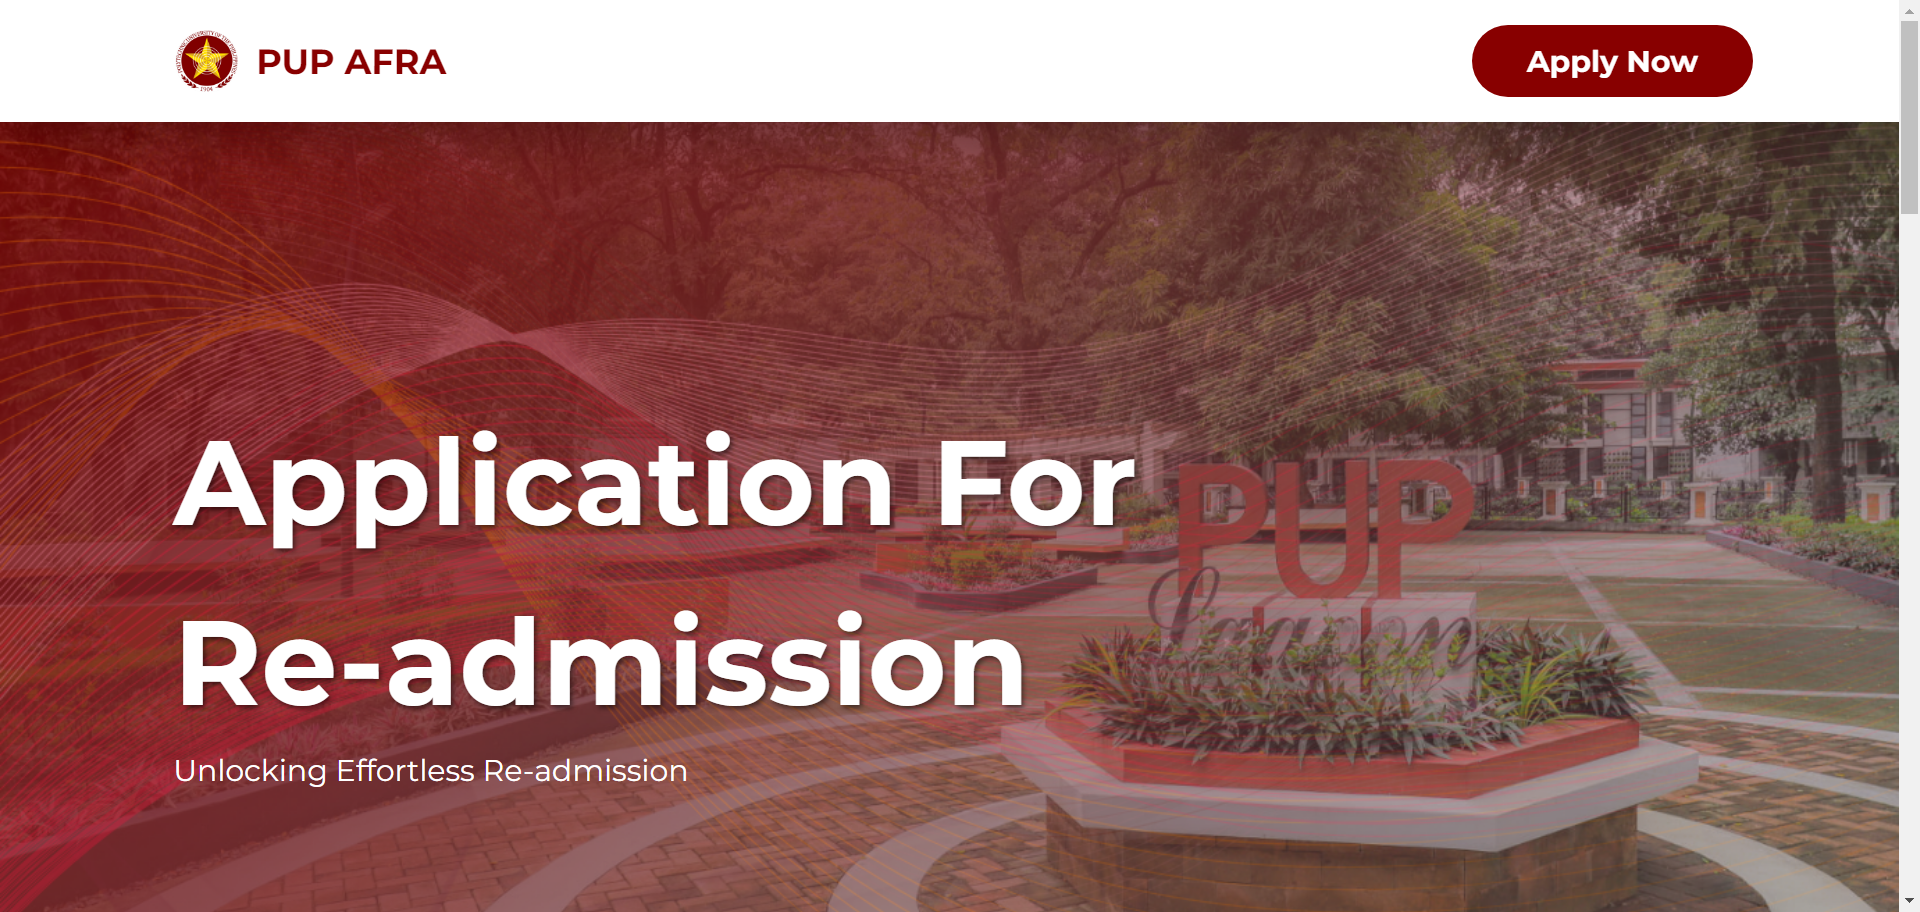
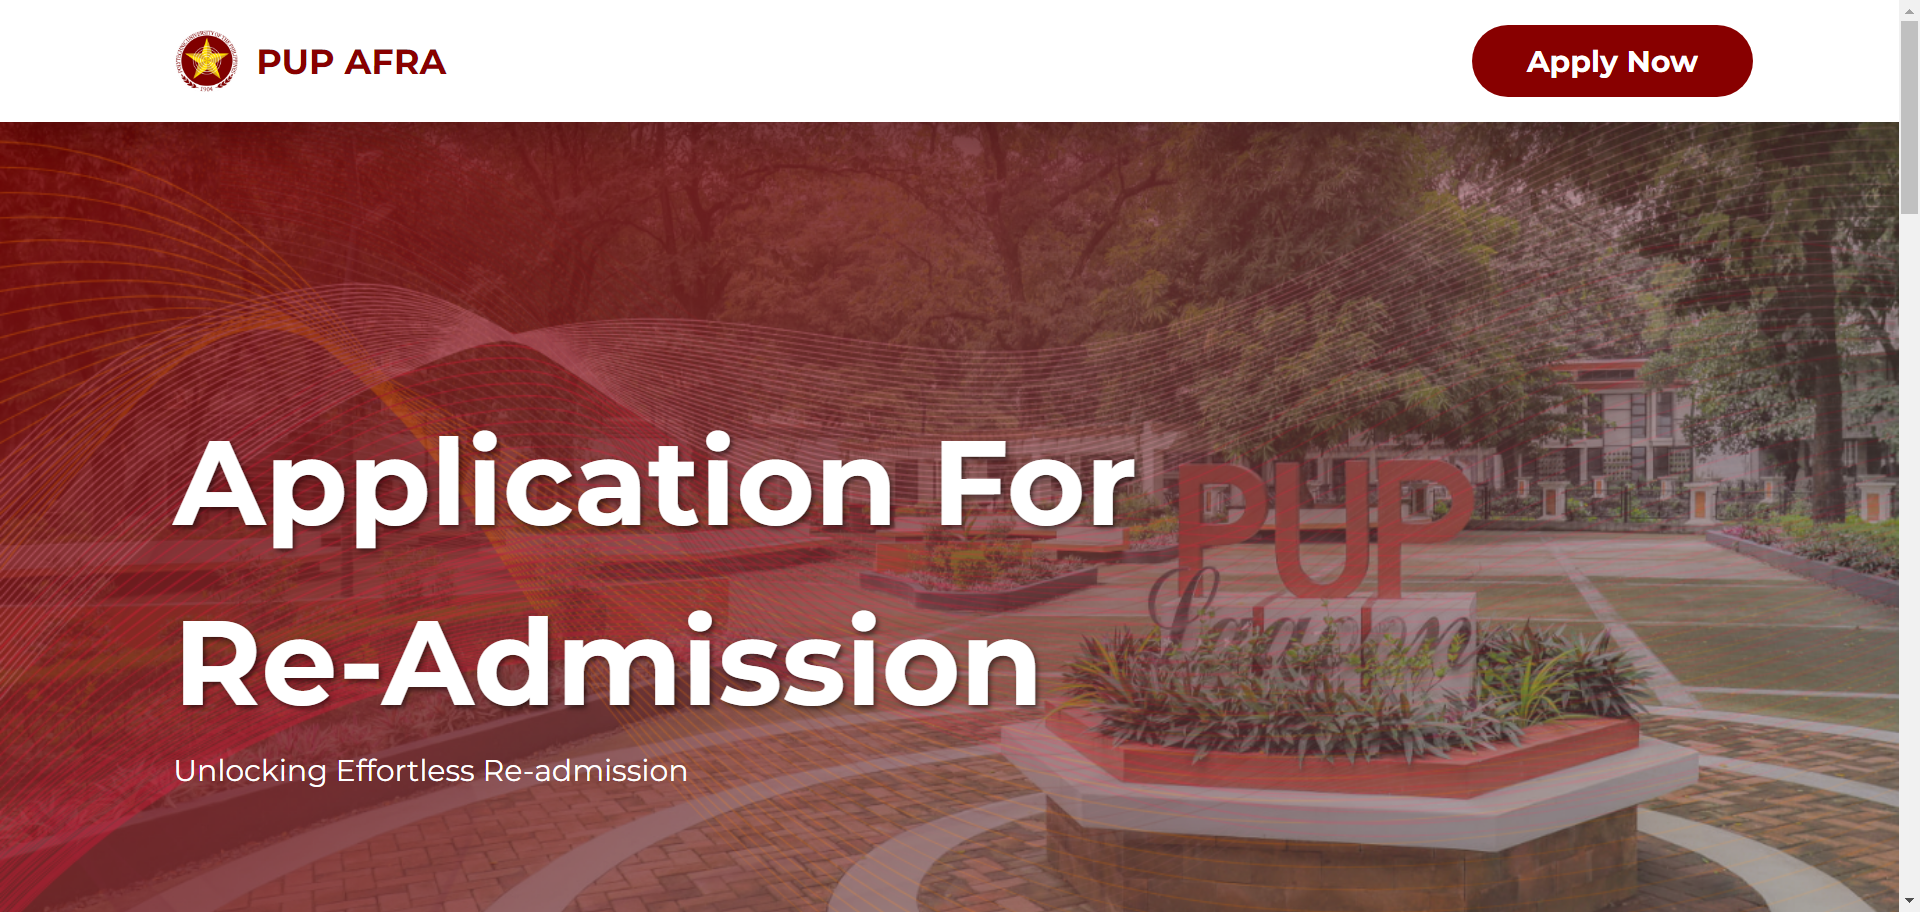
Changes in README Real website picture

Changed region(s): [[0.1875, 0.6754, 0.5625, 0.7982], [0.8125, 0.0614, 0.875, 0.0921], [0.1562, 0.0614, 0.1875, 0.0921]]

diff --git a/index.html b/index.html
@@ -23,8 +23,13 @@
             <img src="assets/pictures/homepage_picture.png" alt="Homepage Background Image">
         </div>
         <div class="content">
+<<<<<<< Updated upstream
             <h1>Application For <br> Re-admission</h1>
             <p class="subtext">Unlocking Effortless Re-Admission</p>
+=======
+            <h1>Application For <br> Re-Admission</h1>
+            <p class="subtext">Unlocking Effortless Re-admission</p>
+>>>>>>> Stashed changes
         </div>
     </div>
 
